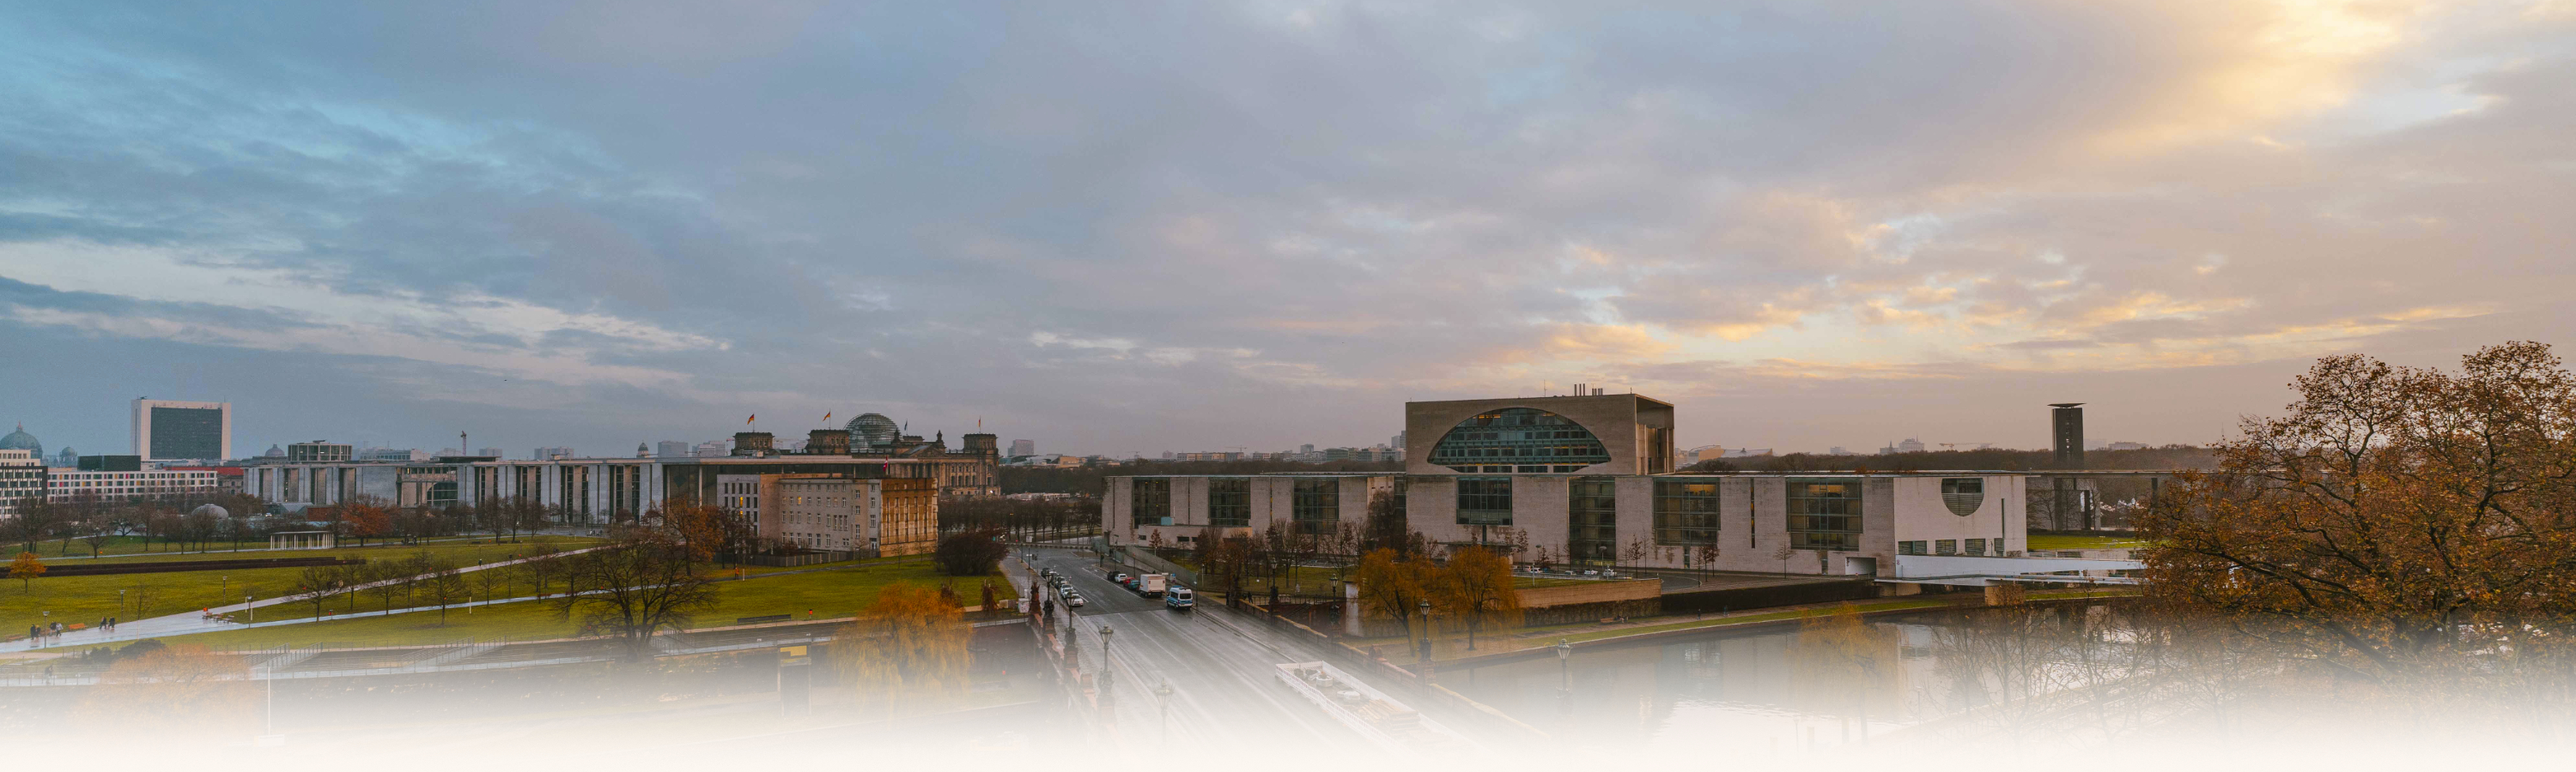
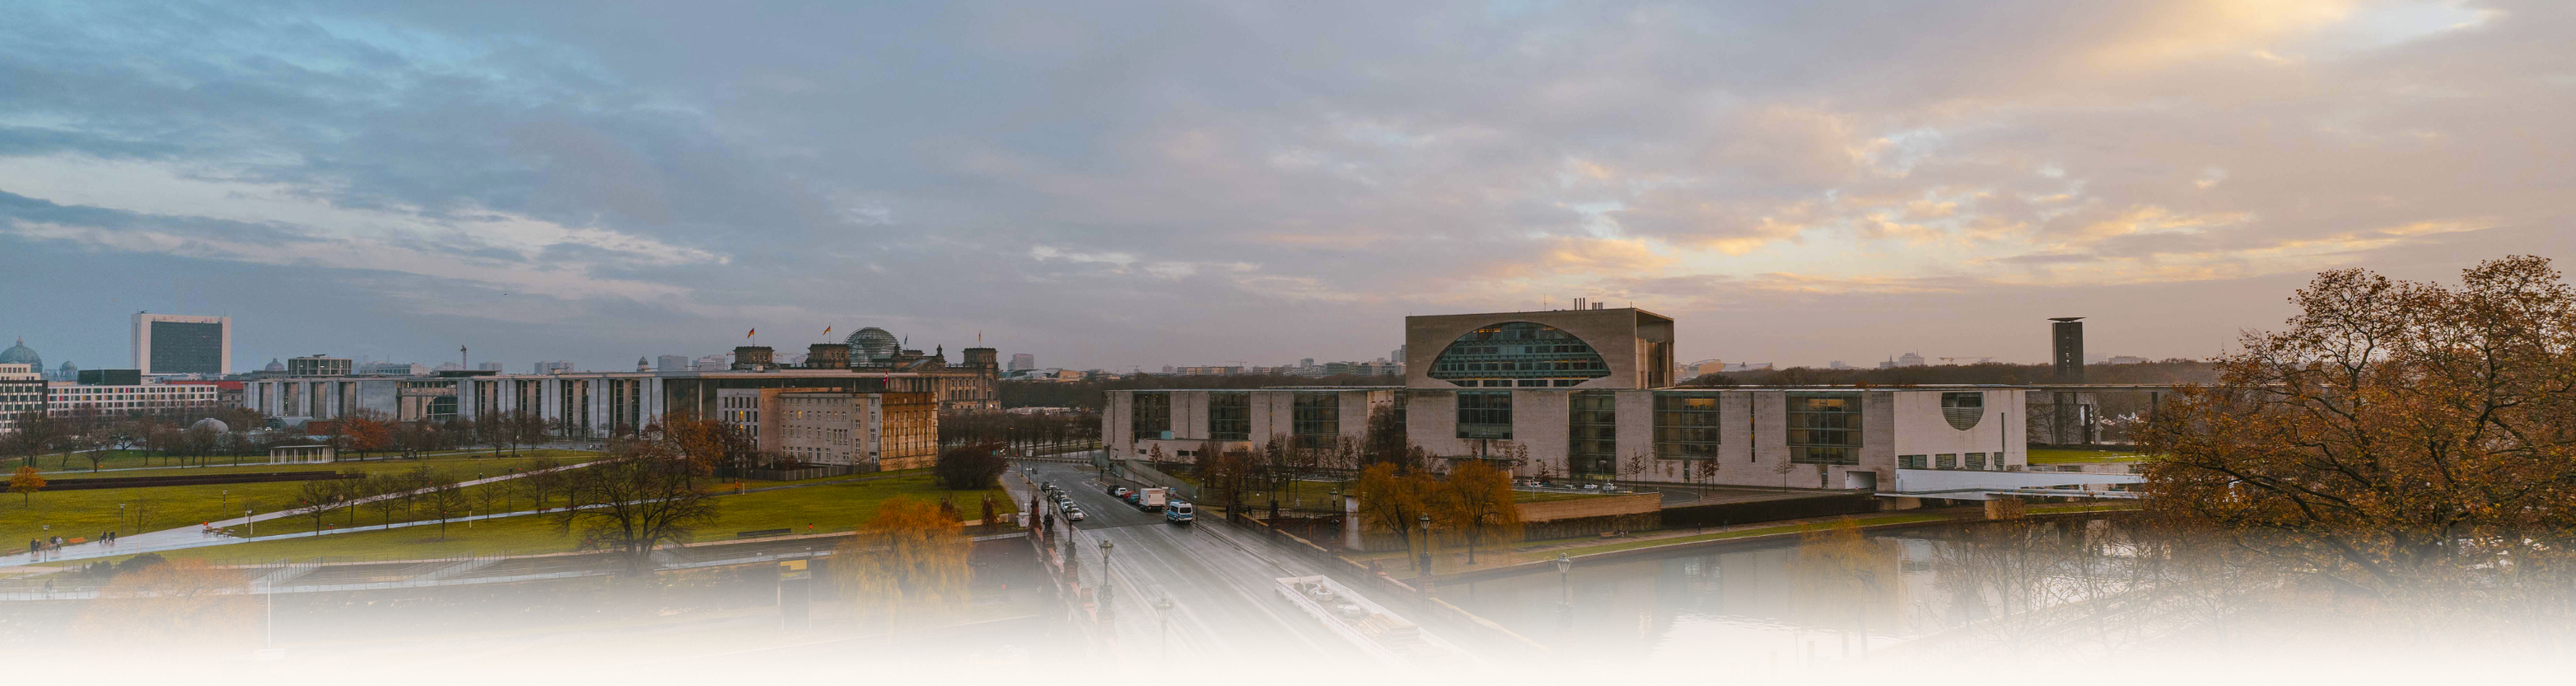
Text nach unten versetzen

diff --git a/index.html b/index.html
@@ -37,7 +37,7 @@
       background: var(--cream);
       color: var(--blue);
       font-family: "Cormorant Garamond", serif;
-      overflow: hidden;
+      overflow: hidden; /* kein Scrollen */
     }
 
     /* ===== HEADER IMAGE ===== */
@@ -50,8 +50,8 @@
     }
 
     .header-image img {
-      width: 100%;
-      height: auto; /* no cropping */
+      width: 100%;      /* volle Breite */
+      height: auto;     /* kein Cropping */
       display: block;
     }
 
@@ -84,42 +84,38 @@
       display: block;
     }
 
-    /* ===== CENTERED TEXT (DESKTOP) ===== */
-    .maintenance {
-      position: fixed;
-      inset: 0;
+    /* ===== CONTENT BELOW HEADER ===== */
+    .content {
+      position: relative;
       z-index: 5;
-      display: flex;
-      align-items: center;
-      justify-content: center;
+      margin-top: calc(
+        (100vw * 430 / 3000)
+      ); 
+      /* Verhältnis: Headerhöhe = Bildhöhe/Bildbreite * Viewportbreite
+         → Passe 430/3000 an die echte Höhe/Breite deines header.jpg an */
       text-align: center;
-      padding: 0 var(--side-pad);
-      pointer-events: none;
+      padding: 40px var(--side-pad) 0;
     }
 
-    .maintenance p {
+    .content p {
       margin: 0;
       font-size: 20px;
       font-weight: 300;
       line-height: 1.7;
-      background: #fdf7f2);
-      padding: 18px 24px;
-      border-radius: 6px;
     }
 
-    .maintenance strong {
+    .content strong {
       font-weight: 500;
     }
 
     /* ===== MOBILE ===== */
     @media (max-width: 768px) {
       :root {
-        --top-offset: 0;
+        --top-offset: 16px;
         --banner-h: auto;
         --side-pad: 18px;
       }
 
-      /* Remove banner look on mobile */
       .main-nav {
         background: transparent;
         height: auto;
@@ -133,26 +129,17 @@
       }
 
       .nav-logo img {
-        width: 40vw;   /* 40% of viewport width */
+        width: 40vw; /* 40% Displaybreite */
         height: auto;
       }
 
-      /* Stack logo + text */
-      .maintenance {
-        position: fixed;
-        inset: 0;
-        display: flex;
-        flex-direction: column;
-        justify-content: center;
-        align-items: center;
-        padding: 0 18px;
-        text-align: center;
+      .content {
+        padding: 24px 18px 0;
+        margin-top: auto; /* mobil: natürlich unter Bild */
       }
 
-      .maintenance p {
-        margin-top: 24px;
+      .content p {
         font-size: 18px;
-        padding: 16px 20px;
       }
     }
   </style>
@@ -165,7 +152,7 @@
     <img src="img/header.jpg" alt="" />
   </section>
 
-  <!-- Nav / Logo -->
+  <!-- Fixed Nav -->
   <div class="nav-shell">
     <nav class="main-nav">
       <a class="nav-logo" href="#">
@@ -174,15 +161,15 @@
     </nav>
   </div>
 
-  <!-- Maintenance Text -->
-  <section class="maintenance">
+  <!-- Text BELOW header image -->
+  <main class="content">
     <p>
       <strong>Welcome.</strong><br />
       This website is currently under construction.<br /><br />
       Kind regards,<br />
       Hauke Thimm
     </p>
-  </section>
+  </main>
 
 </body>
 </html>
